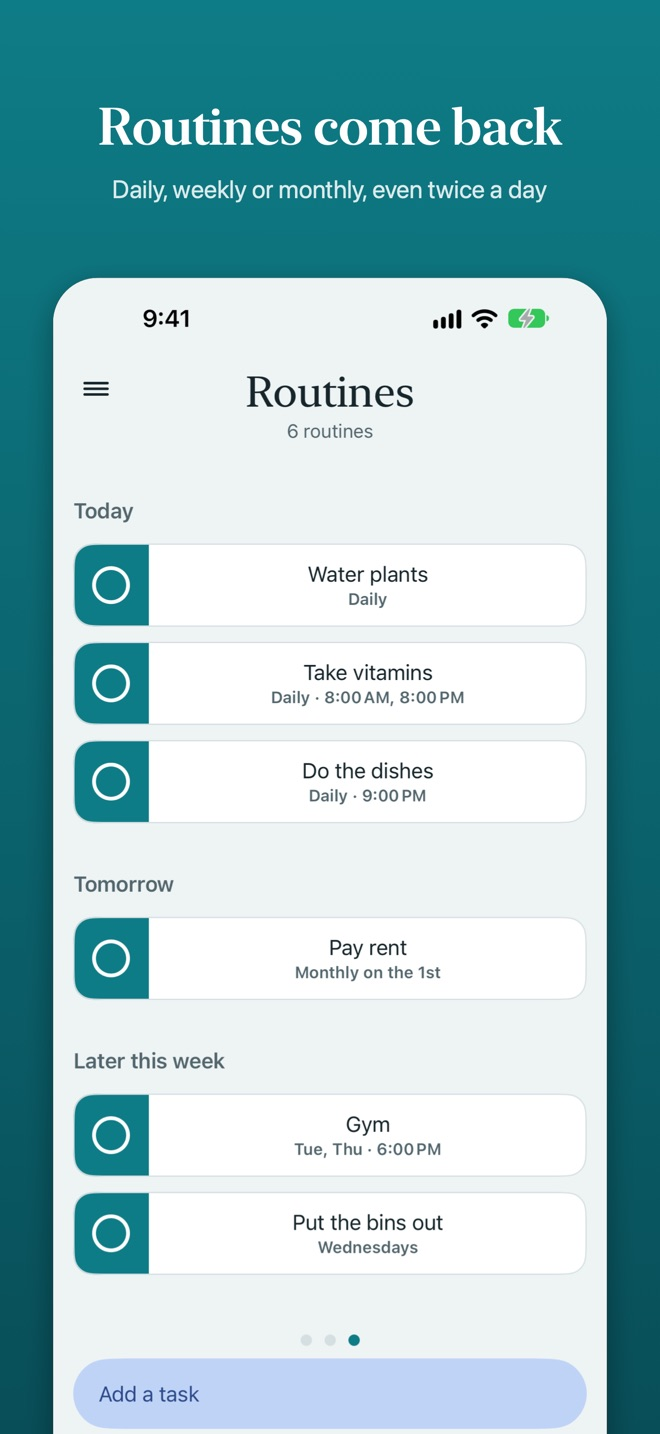
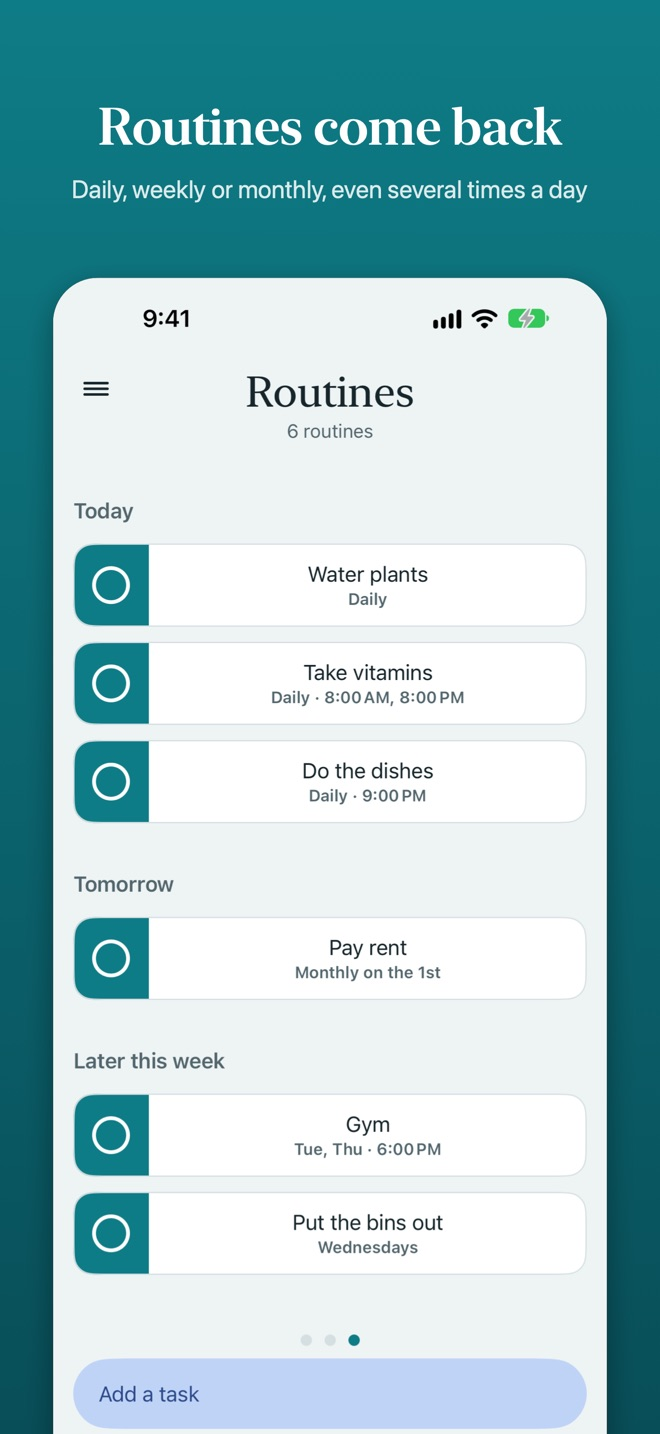
Routines come back several times a day
Claude-Session: https://claude.ai/code/session_01H4JYQyMGK4g5xCBu5i1GL1

Changed region(s): [[0.1212, 0.1227, 0.8788, 0.1534]]

diff --git a/index.html b/index.html
@@ -46,7 +46,7 @@
           <li><figure><img src="images/04-breakdown.jpg" width="660" height="1434" loading="lazy" alt="A big task broken down into small steps"><figcaption>Big task? Break it into small steps.</figcaption></figure></li>
           <li><figure><img src="images/05-not-now.jpg" width="660" height="1434" loading="lazy" alt="The Not Now screen with tasks grouped by where you can do them"><figcaption>Everything else waits on Not Now.</figcaption></figure></li>
           <li><figure><img src="images/06-work.jpg" width="660" height="1434" loading="lazy" alt="The briefcase menu on Now with All tasks, No work tasks and Only work tasks. Only work tasks is picked, and the menu says 2 hidden tasks are due today or overdue, with a Show them on Now button"><figcaption>Leave work at work. Hide work tasks, or see only work, in two taps.</figcaption></figure></li>
-          <li><figure><img src="images/07-routines.jpg" width="660" height="1434" loading="lazy" alt="The Routines page: daily, weekly and monthly routines grouped into Today, Tomorrow and Later"><figcaption>Routines come back daily, weekly or monthly, even twice a day.</figcaption></figure></li>
+          <li><figure><img src="images/07-routines.jpg" width="660" height="1434" loading="lazy" alt="The Routines page: daily, weekly and monthly routines grouped into Today, Tomorrow and Later"><figcaption>Routines come back daily, weekly or monthly, even several times a day.</figcaption></figure></li>
           <li><figure><img src="images/08-widget.jpg" width="660" height="1434" loading="lazy" alt="MeelMore's Home Screen widgets in two sizes"><figcaption>See what's next from your Home Screen.</figcaption></figure></li>
         </ul>
       </div>
